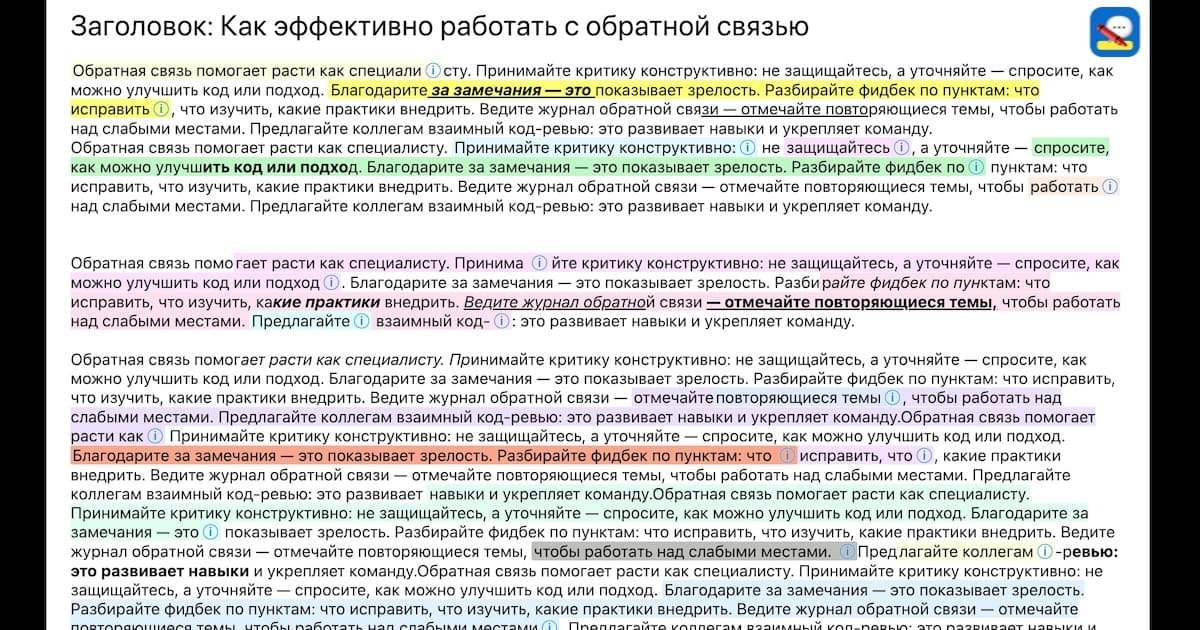
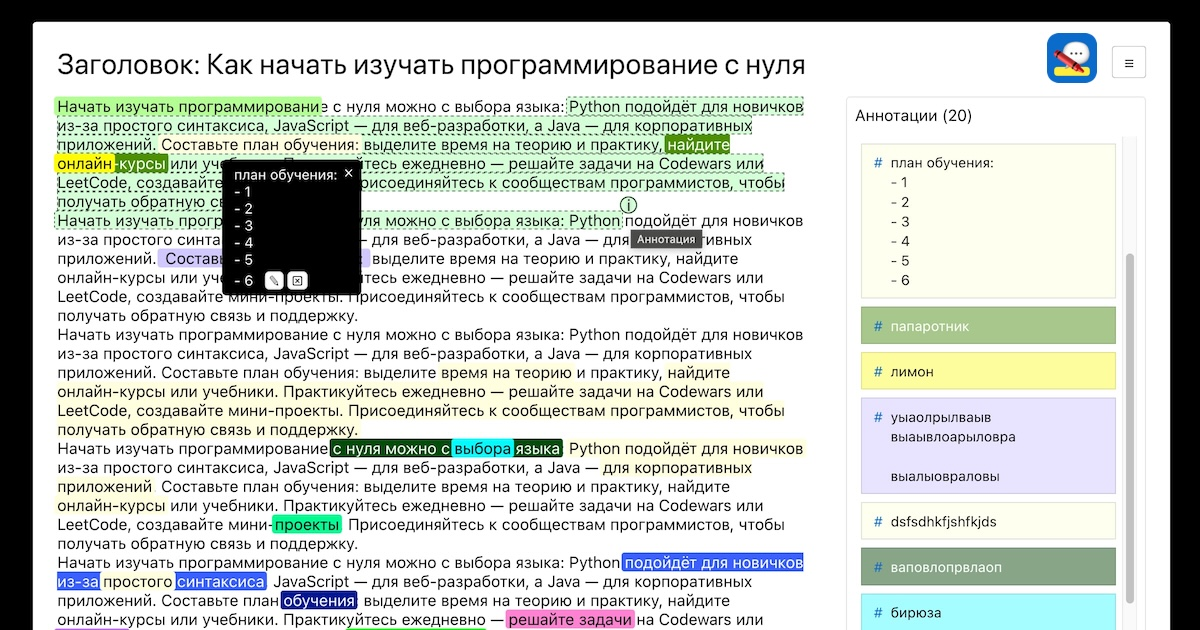
new ui/ux

diff --git a/src/components/tooltip/tooltip-container.directive.ts b/src/components/tooltip/tooltip-container.directive.ts
@@ -135,25 +135,10 @@ export class TooltipContainer implements AfterViewInit, OnDestroy {
         }
       };
 
-      const toggleHover = (isHovered: boolean) => {
-        const annotationId = mark.getAttribute(dict['ATTR_ANNOTATION_ID']);
-        if (!annotationId) {
-          return;
-        }
-        this.el.nativeElement
-          .querySelectorAll(`${ dict['MARK_TAG'] }[${ dict['ATTR_ANNOTATION_ID'] }="${ annotationId }"]`)
-          .forEach((part: HTMLElement) => part.classList.toggle(dict['ANNOTATION_HOVER_CLASS'], isHovered));
-      };
-
-      const enterHandler = () => toggleHover(true);
-      const leaveHandler = () => toggleHover(false);
-
       this.triggerHandlers!.set(triggerEl, clickHandler);
       this.triggerElements!.set(mark, triggerEl);
 
       triggerEl.addEventListener('click', clickHandler);
-      triggerEl.addEventListener('mouseenter', enterHandler, { signal: this.abortCtrl.signal });
-      triggerEl.addEventListener('mouseleave', leaveHandler, { signal: this.abortCtrl.signal });
       mark.appendChild(triggerEl);
     });
 
@@ -182,6 +167,48 @@ export class TooltipContainer implements AfterViewInit, OnDestroy {
     };
     document.addEventListener('mouseup', selectionHandler, { capture: true, signal: this.abortCtrl.signal });
     document.addEventListener('keyup', selectionHandler, { capture: true, signal: this.abortCtrl.signal });
+
+    const toggleHoverByEvent = (event: MouseEvent, isHovered: boolean) => {
+      const target = event.target as HTMLElement | null;
+      const mark = target?.closest<HTMLElement>(
+        `${ dict['MARK_TAG'] }[${ dict['ATTR_ANNOTATION_ID'] }]`
+      );
+      if (!mark) {
+        return;
+      }
+
+      event.stopPropagation();
+
+      const annotationId = mark.getAttribute(dict['ATTR_ANNOTATION_ID']);
+      if (!annotationId) {
+        return;
+      }
+
+      const related = event.relatedTarget as HTMLElement | null;
+      const relatedMark = related?.closest<HTMLElement>(
+        `${ dict['MARK_TAG'] }[${ dict['ATTR_ANNOTATION_ID'] }]`
+      );
+      if (relatedMark?.getAttribute(dict['ATTR_ANNOTATION_ID']) === annotationId) {
+        return;
+      }
+
+      this.el.nativeElement
+        .querySelectorAll(
+          `${ dict['MARK_TAG'] }[${ dict['ATTR_ANNOTATION_ID'] }="${ annotationId }"]`
+        )
+        .forEach((part: HTMLElement) => part.classList.toggle(dict['ANNOTATION_HOVER_CLASS'], isHovered));
+    };
+
+    this.el.nativeElement.addEventListener(
+      'mouseover',
+      (event: MouseEvent) => toggleHoverByEvent(event, true),
+      { signal: this.abortCtrl.signal }
+    );
+    this.el.nativeElement.addEventListener(
+      'mouseout',
+      (event: MouseEvent) => toggleHoverByEvent(event, false),
+      { signal: this.abortCtrl.signal }
+    );
   }
 
   private isClickInsideTooltipOrTrigger (event: MouseEvent): boolean {

diff --git a/src/styles/styles.scss b/src/styles/styles.scss
@@ -68,23 +68,37 @@ mark {
   border-radius: 3px;
   padding: 0 3px;
   margin: 0 -3px;
+  position: relative;
 
-  span[data-has-tooltip] {
+  > span[data-has-tooltip] {
     color: inherit;
+    background-color: inherit;
+    position: absolute;
+    left: 100%;
+    bottom: 0;
+    transform: translate(-4px, calc(-100% + 4px));
+    opacity: 0;
+    transition: opacity .15s ease;
+    border: 1px solid transparent;
+    border-radius: 50%;
+    width: 19px;
+    height: 19px;
+    box-sizing: border-box;
+    text-align: center;
 
     &::before {
-      content: '\00a0' var(--icon-info);
+      content: 'i';
       cursor: pointer;
-      font-weight: bold;
+      width: 17px;
+      height: 17px;
+      display: block;
+      box-sizing: border-box;
       color: inherit;
+      background-color: inherit;
+      border-radius: 50%;
+      border: 1px solid currentColor;
       text-shadow: 0 0 3px color-mix(in srgb, currentColor 35%, transparent);
-      transition: opacity .15s ease;
-      padding: 0 1px;
-      margin: 0 -1px;
-    }
-
-    &:hover::before {
-      opacity: .55;
+      line-height: 15px;
     }
   }
 
@@ -97,6 +111,11 @@ mark {
     outline-style: dashed;
     outline-color: color-mix(in srgb, currentColor 65%, transparent);
     outline-offset: -1px;
+
+    > span[data-has-tooltip] {
+      opacity: 1;
+      z-index: 100;
+    }
   }
 }
 
